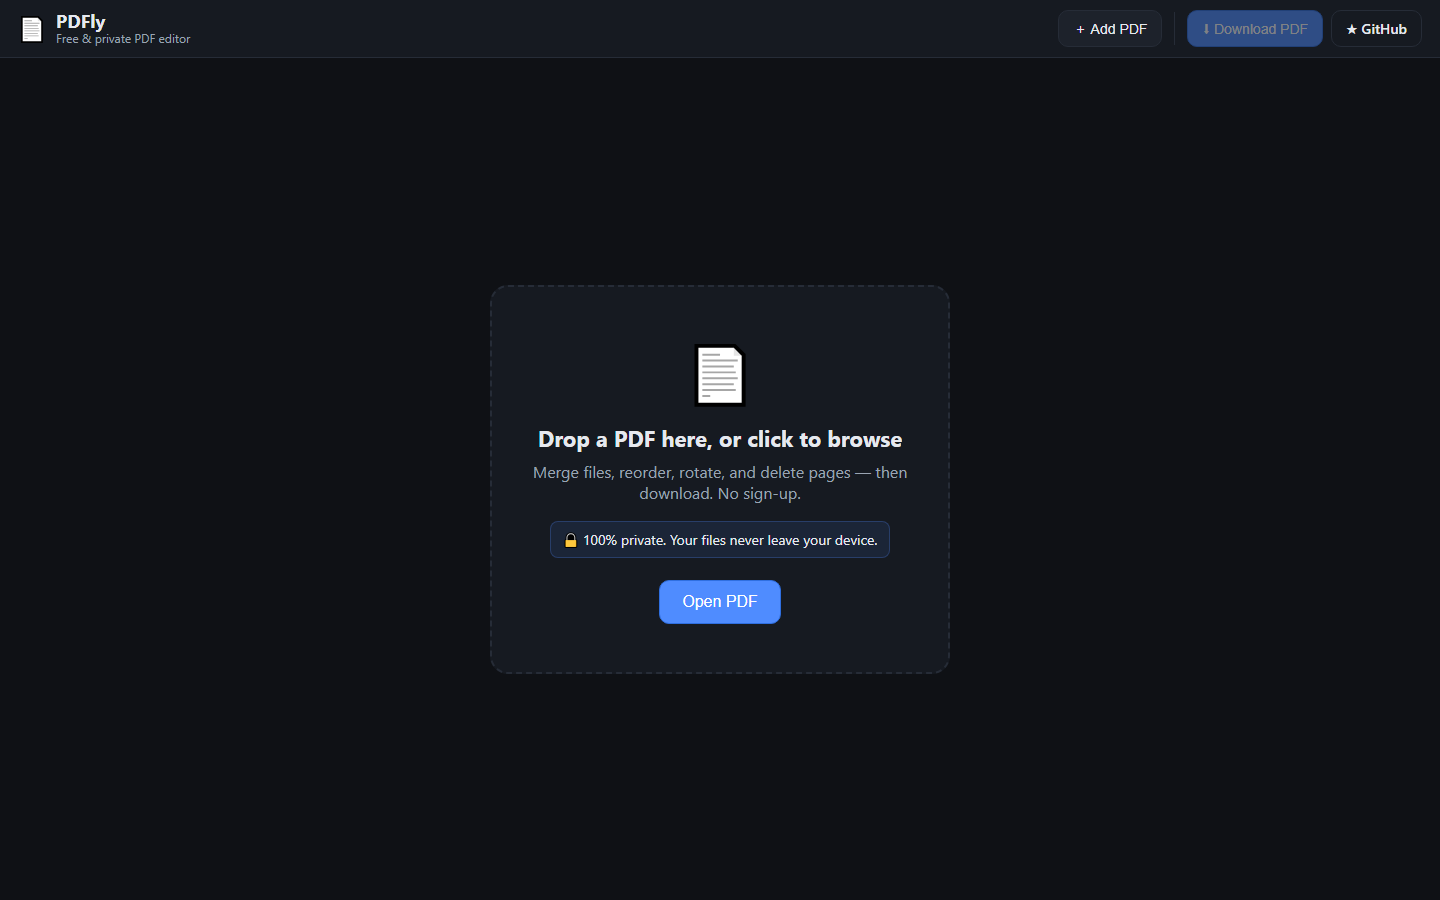
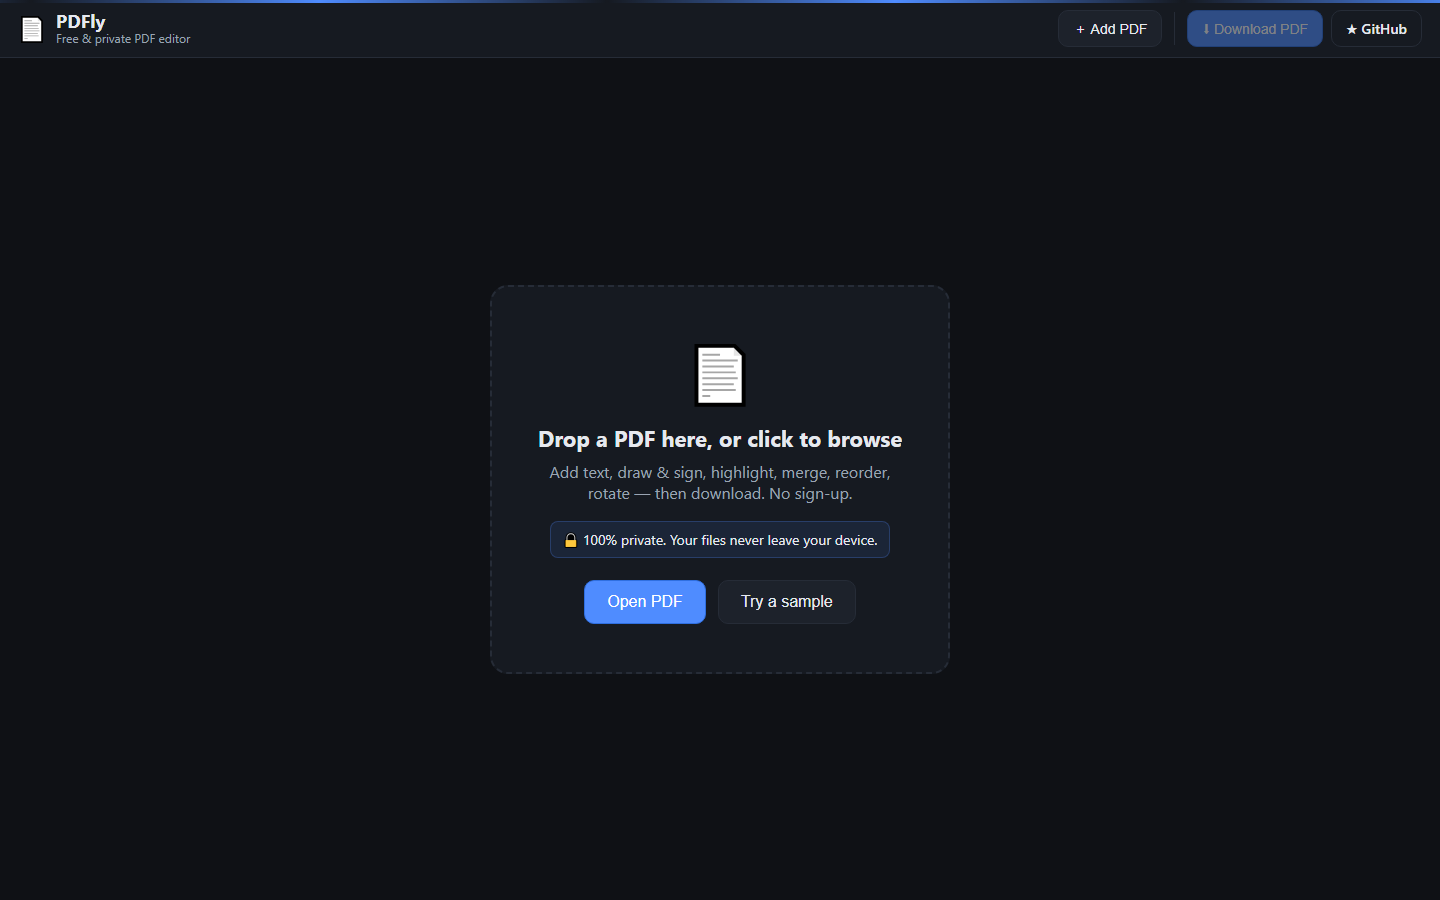
Polish: global undo/redo, drag-to-reorder pages, Esc-to-deselect
- Undo/redo (Ctrl+Z / Ctrl+Shift+Z + toolbar buttons) across page ops,
  annotations and clear; history snapshots include source docs
- Drag-and-drop thumbnail reordering with a drop indicator
- Escape deselects the active text box
- Responsive tweaks for narrow screens (tool labels collapse to icons)
- Make sample generators path-independent; add make-form-sample script
- Dedupe docs screenshots

diff --git a/src/App.tsx b/src/App.tsx
@@ -23,6 +23,14 @@ const isEditingText = () => {
   return !!el && (el.isContentEditable || el.tagName === 'INPUT' || el.tagName === 'TEXTAREA')
 }
 
+interface Snapshot {
+  pages: PageItem[]
+  sources: Map<string, SourceDoc>
+  annotations: AnnotationMap
+  formValues: Record<string, string | boolean>
+  selectedId: string | null
+}
+
 export default function App() {
   const [sources, setSources] = useState<Map<string, SourceDoc>>(new Map())
   const [pages, setPages] = useState<PageItem[]>([])
@@ -101,16 +109,53 @@ export default function App() {
     // eslint-disable-next-line react-hooks/exhaustive-deps
   }, [])
 
+  // ---- undo / redo history (structural changes) ----
+  const undoStack = useRef<Snapshot[]>([])
+  const redoStack = useRef<Snapshot[]>([])
+  const [, bumpHistory] = useState(0)
+
+  const current = (): Snapshot => ({ pages, sources, annotations, formValues, selectedId })
+  const snapshot = () => {
+    undoStack.current.push(current())
+    if (undoStack.current.length > 80) undoStack.current.shift()
+    redoStack.current = []
+    bumpHistory((n) => n + 1)
+  }
+  const restore = (s: Snapshot) => {
+    setPages(s.pages)
+    setSources(s.sources)
+    setAnnotations(s.annotations)
+    setFormValues(s.formValues)
+    setSelectedId(s.selectedId)
+  }
+  const undo = () => {
+    if (!undoStack.current.length) return
+    redoStack.current.push(current())
+    restore(undoStack.current.pop()!)
+    bumpHistory((n) => n + 1)
+  }
+  const redo = () => {
+    if (!redoStack.current.length) return
+    undoStack.current.push(current())
+    restore(redoStack.current.pop()!)
+    bumpHistory((n) => n + 1)
+  }
+
   // ---- page operations ----
-  const rotatePage = (id: string, delta: number) =>
+  const rotatePage = (id: string, delta: number) => {
+    snapshot()
     setPages((prev) =>
       prev.map((p) => (p.id === id ? { ...p, rotation: norm(p.rotation + delta) } : p)),
     )
+  }
 
-  const rotateAll = (delta: number) =>
+  const rotateAll = (delta: number) => {
+    snapshot()
     setPages((prev) => prev.map((p) => ({ ...p, rotation: norm(p.rotation + delta) })))
+  }
 
   const deletePage = (id: string) => {
+    snapshot()
     const idx = pages.findIndex((p) => p.id === id)
     const next = pages.filter((p) => p.id !== id)
     setPages(next)
@@ -123,7 +168,8 @@ export default function App() {
     }
   }
 
-  const movePage = (id: string, dir: -1 | 1) =>
+  const movePage = (id: string, dir: -1 | 1) => {
+    snapshot()
     setPages((prev) => {
       const idx = prev.findIndex((p) => p.id === id)
       const j = idx + dir
@@ -132,22 +178,41 @@ export default function App() {
       ;[next[idx], next[j]] = [next[j], next[idx]]
       return next
     })
+  }
 
-  // ---- annotation operations ----
-  const setPageAnns = (pageId: string, anns: Annotation[]) =>
-    setAnnotations((prev) => ({ ...prev, [pageId]: anns }))
-
-  const undoOnPage = () => {
-    if (!selectedId) return
-    setAnnotations((prev) => {
-      const anns = prev[selectedId] ?? []
-      if (!anns.length) return prev
-      return { ...prev, [selectedId]: anns.slice(0, -1) }
+  // Drag-and-drop reorder: move `fromId` to just before `toId`.
+  const reorderPage = (fromId: string, toId: string) => {
+    if (fromId === toId) return
+    snapshot()
+    setPages((prev) => {
+      const from = prev.findIndex((p) => p.id === fromId)
+      if (from < 0) return prev
+      const next = [...prev]
+      const [moved] = next.splice(from, 1)
+      const to = next.findIndex((p) => p.id === toId)
+      next.splice(to < 0 ? next.length : to, 0, moved)
+      return next
     })
   }
 
-  const clearPageAnns = () => {
+  // ---- annotation operations ----
+  const setPageAnns = (pageId: string, anns: Annotation[]) => {
+    // Snapshot only on structural changes (add/remove), not on every keystroke/drag.
+    if (anns.length !== (annotations[pageId] ?? []).length) snapshot()
+    setAnnotations((prev) => ({ ...prev, [pageId]: anns }))
+  }
+
+  const undoOnPage = () => {
     if (!selectedId) return
+    const anns = annotations[selectedId] ?? []
+    if (!anns.length) return
+    snapshot()
+    setAnnotations((prev) => ({ ...prev, [selectedId]: anns.slice(0, -1) }))
+  }
+
+  const clearPageAnns = () => {
+    if (!selectedId || !(annotations[selectedId]?.length)) return
+    snapshot()
     setAnnotations((prev) => ({ ...prev, [selectedId]: [] }))
   }
 
@@ -169,6 +234,7 @@ export default function App() {
   }
 
   const clearAll = () => {
+    if (pages.length) snapshot()
     setPages([])
     setSources(new Map())
     setAnnotations({})
@@ -217,6 +283,24 @@ export default function App() {
     return () => window.removeEventListener('keydown', onKey)
   }, [pages, selectedId])
 
+  // ---- undo / redo shortcuts (native undo wins inside a text field) ----
+  useEffect(() => {
+    const onKey = (e: KeyboardEvent) => {
+      if (isEditingText()) return
+      const mod = e.ctrlKey || e.metaKey
+      if (mod && (e.key === 'z' || e.key === 'Z')) {
+        e.preventDefault()
+        e.shiftKey ? redo() : undo()
+      } else if (mod && (e.key === 'y' || e.key === 'Y')) {
+        e.preventDefault()
+        redo()
+      }
+    }
+    window.addEventListener('keydown', onKey)
+    return () => window.removeEventListener('keydown', onKey)
+    // eslint-disable-next-line react-hooks/exhaustive-deps
+  }, [pages, sources, annotations, formValues, selectedId])
+
   const selected = pages.find((p) => p.id === selectedId) ?? null
   const selectedSrc = selected ? sources.get(selected.srcId) : undefined
   const empty = pages.length === 0
@@ -233,6 +317,10 @@ export default function App() {
         setZoom={setZoom}
         pageCount={pages.length}
         onRotateAll={rotateAll}
+        onUndo={undo}
+        onRedo={redo}
+        canUndo={undoStack.current.length > 0}
+        canRedo={redoStack.current.length > 0}
         busy={busy}
       />
 
@@ -279,6 +367,7 @@ export default function App() {
             onRotate={rotatePage}
             onDelete={deletePage}
             onMove={movePage}
+            onReorder={reorderPage}
           />
           {selected && selectedSrc ? (
             <PageEditor

diff --git a/src/components/ThumbnailSidebar.tsx b/src/components/ThumbnailSidebar.tsx
@@ -1,3 +1,4 @@
+import { useState } from 'react'
 import { PdfCanvas } from './PdfCanvas'
 import type { PageItem, SourceDoc } from '../lib/types'
 
@@ -9,6 +10,7 @@ interface Props {
   onRotate: (id: string, delta: number) => void
   onDelete: (id: string) => void
   onMove: (id: string, dir: -1 | 1) => void
+  onReorder: (fromId: string, toId: string) => void
 }
 
 export function ThumbnailSidebar({
@@ -19,22 +21,50 @@ export function ThumbnailSidebar({
   onRotate,
   onDelete,
   onMove,
+  onReorder,
 }: Props) {
+  const [draggingId, setDraggingId] = useState<string | null>(null)
+  const [overId, setOverId] = useState<string | null>(null)
+
   return (
     <aside className="sidebar">
       <div className="sidebar-head">
-        {pages.length} page{pages.length !== 1 ? 's' : ''}
+        {pages.length} page{pages.length !== 1 ? 's' : ''} · drag to reorder
       </div>
       <div className="thumbs">
         {pages.map((p, i) => {
           const src = sources.get(p.srcId)
           if (!src) return null
           const active = p.id === selectedId
+          const isOver = overId === p.id && draggingId !== p.id
           return (
             <div
               key={p.id}
-              className={`thumb${active ? ' active' : ''}`}
+              className={
+                'thumb' +
+                (active ? ' active' : '') +
+                (draggingId === p.id ? ' dragging' : '') +
+                (isOver ? ' drag-over' : '')
+              }
+              draggable
               onClick={() => onSelect(p.id)}
+              onDragStart={(e) => {
+                setDraggingId(p.id)
+                e.dataTransfer.effectAllowed = 'move'
+                e.dataTransfer.setData('text/plain', p.id)
+              }}
+              onDragEnter={() => setOverId(p.id)}
+              onDragOver={(e) => e.preventDefault()}
+              onDragEnd={() => {
+                setDraggingId(null)
+                setOverId(null)
+              }}
+              onDrop={(e) => {
+                e.preventDefault()
+                if (draggingId && draggingId !== p.id) onReorder(draggingId, p.id)
+                setDraggingId(null)
+                setOverId(null)
+              }}
             >
               <div className="thumb-canvas">
                 <PdfCanvas
@@ -46,11 +76,7 @@ export function ThumbnailSidebar({
               </div>
               <div className="thumb-num">{i + 1}</div>
               <div className="thumb-actions" onClick={(e) => e.stopPropagation()}>
-                <button
-                  title="Move up"
-                  onClick={() => onMove(p.id, -1)}
-                  disabled={i === 0}
-                >
+                <button title="Move up" onClick={() => onMove(p.id, -1)} disabled={i === 0}>
                   ↑
                 </button>
                 <button

diff --git a/src/components/Toolbar.tsx b/src/components/Toolbar.tsx
@@ -7,6 +7,10 @@ interface Props {
   setZoom: (z: number) => void
   pageCount: number
   onRotateAll: (delta: number) => void
+  onUndo: () => void
+  onRedo: () => void
+  canUndo: boolean
+  canRedo: boolean
   busy: boolean
 }
 
@@ -24,6 +28,10 @@ export function Toolbar({
   setZoom,
   pageCount,
   onRotateAll,
+  onUndo,
+  onRedo,
+  canUndo,
+  canRedo,
   busy,
 }: Props) {
   return (
@@ -45,6 +53,25 @@ export function Toolbar({
 
         {pageCount > 0 && (
           <>
+            <div className="divider" />
+            <button
+              className="btn icon"
+              onClick={onUndo}
+              disabled={!canUndo}
+              title="Undo (Ctrl+Z)"
+              aria-label="Undo"
+            >
+              ↶
+            </button>
+            <button
+              className="btn icon"
+              onClick={onRedo}
+              disabled={!canRedo}
+              title="Redo (Ctrl+Shift+Z)"
+              aria-label="Redo"
+            >
+              ↷
+            </button>
             <div className="divider" />
             <div className="zoom" role="group" aria-label="Zoom">
               <button

diff --git a/src/styles.css b/src/styles.css
@@ -213,6 +213,15 @@ body {
   border-color: var(--accent);
 }
 
+.thumb.dragging {
+  opacity: 0.4;
+}
+
+.thumb.drag-over {
+  border-top-color: var(--accent);
+  box-shadow: 0 -3px 0 -1px var(--accent);
+}
+
 .thumb-canvas {
   display: flex;
   justify-content: center;
@@ -407,6 +416,20 @@ body {
   }
   .viewer {
     padding: 16px;
+  }
+}
+
+@media (max-width: 560px) {
+  .tool-label {
+    display: none;
+  }
+  .tool-btn {
+    min-width: 40px;
+  }
+  .toolbar,
+  .edit-toolbar {
+    padding: 8px 10px;
+    gap: 6px;
   }
 }
 

diff --git a/src/components/PageEditor.tsx b/src/components/PageEditor.tsx
@@ -70,6 +70,18 @@ export function PageEditor({
     }
   }, [src.doc, page.srcPageIndex, page.rotation, scale])
 
+  // Escape deselects / stops editing the current text box.
+  useEffect(() => {
+    const onKey = (e: KeyboardEvent) => {
+      if (e.key === 'Escape') {
+        ;(document.activeElement as HTMLElement | null)?.blur?.()
+        setEditingId(null)
+      }
+    }
+    window.addEventListener('keydown', onKey)
+    return () => window.removeEventListener('keydown', onKey)
+  }, [])
+
   const toPdf = useCallback(
     (clientX: number, clientY: number) => {
       const surface = surfaceRef.current